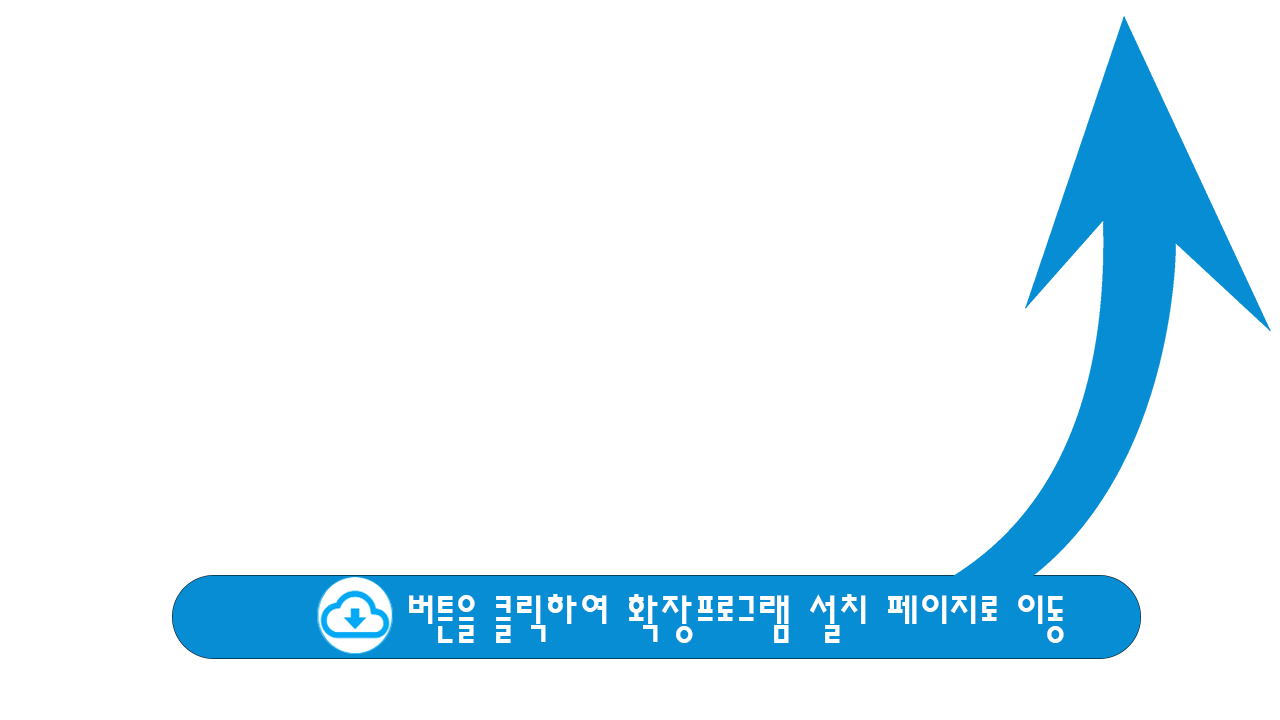
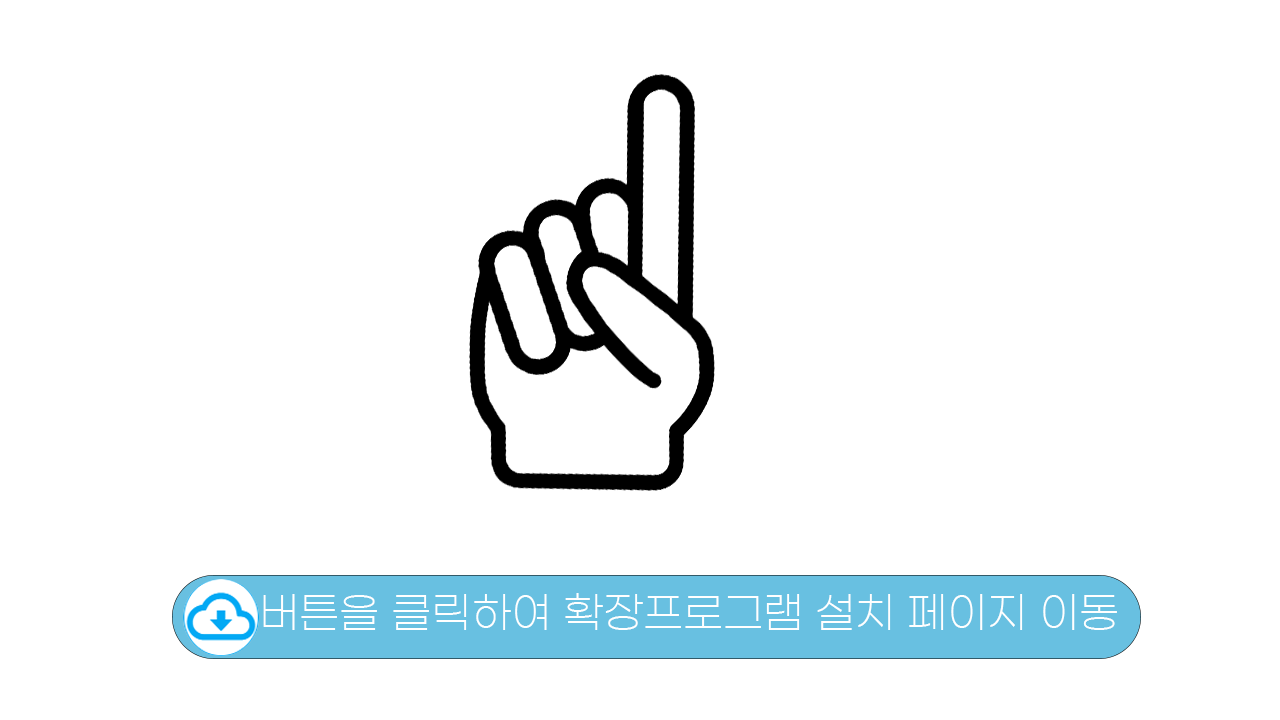
[feat/front]메인캐러셀수정

Changed region(s): [[0.125, 0.0306, 1.0, 0.9167], [0.3438, 0.0917, 0.5625, 0.7028]]

diff --git a/ssalog_front/src/views/Home.vue b/ssalog_front/src/views/Home.vue
@@ -172,11 +172,9 @@
           <div class="py-12"></div>
           <div class="iCountUp"></div>
           <v-container class="pa-12">
-            <h3 class="display-2 font-weight-bold mb-3 text-uppercase text-center">
-              사용법
-            </h3>
+            <h3 class="display-2 font-weight-bold mb-3 text-uppercase text-center"></h3>
 
-            <v-row justify="end" class="mb-5  pr-12 mr-12">
+            <v-row justify="center" class="mb-5">
               <v-btn
                 outlined
                 fab
@@ -189,10 +187,16 @@
               </v-btn>
             </v-row>
 
-            <v-carousel cycle height="85vh" whide-delimiter-background show-arrows-on-hover>
+            <v-carousel
+              class="mx-auto"
+              height="80vh"
+              style="max-width:80%;"
+              show-arrows-on-hover
+              hide-delimiter-background
+            >
               <v-carousel-item v-for="slide in slides" :key="slide.id">
-                <v-sheet color="white" height="100%">
-                  <v-row class="fill-width fill-height" align="center" justify="center">
+                <v-sheet color="white" height="90%">
+                  <v-row class="fill-width fill-height" align="center">
                     <img :src="slide.image" height="100%" width="100%" contain />
                     <!-- <div class="display-3">
                       <h6 black>{{ slide.desc }}</h6>
